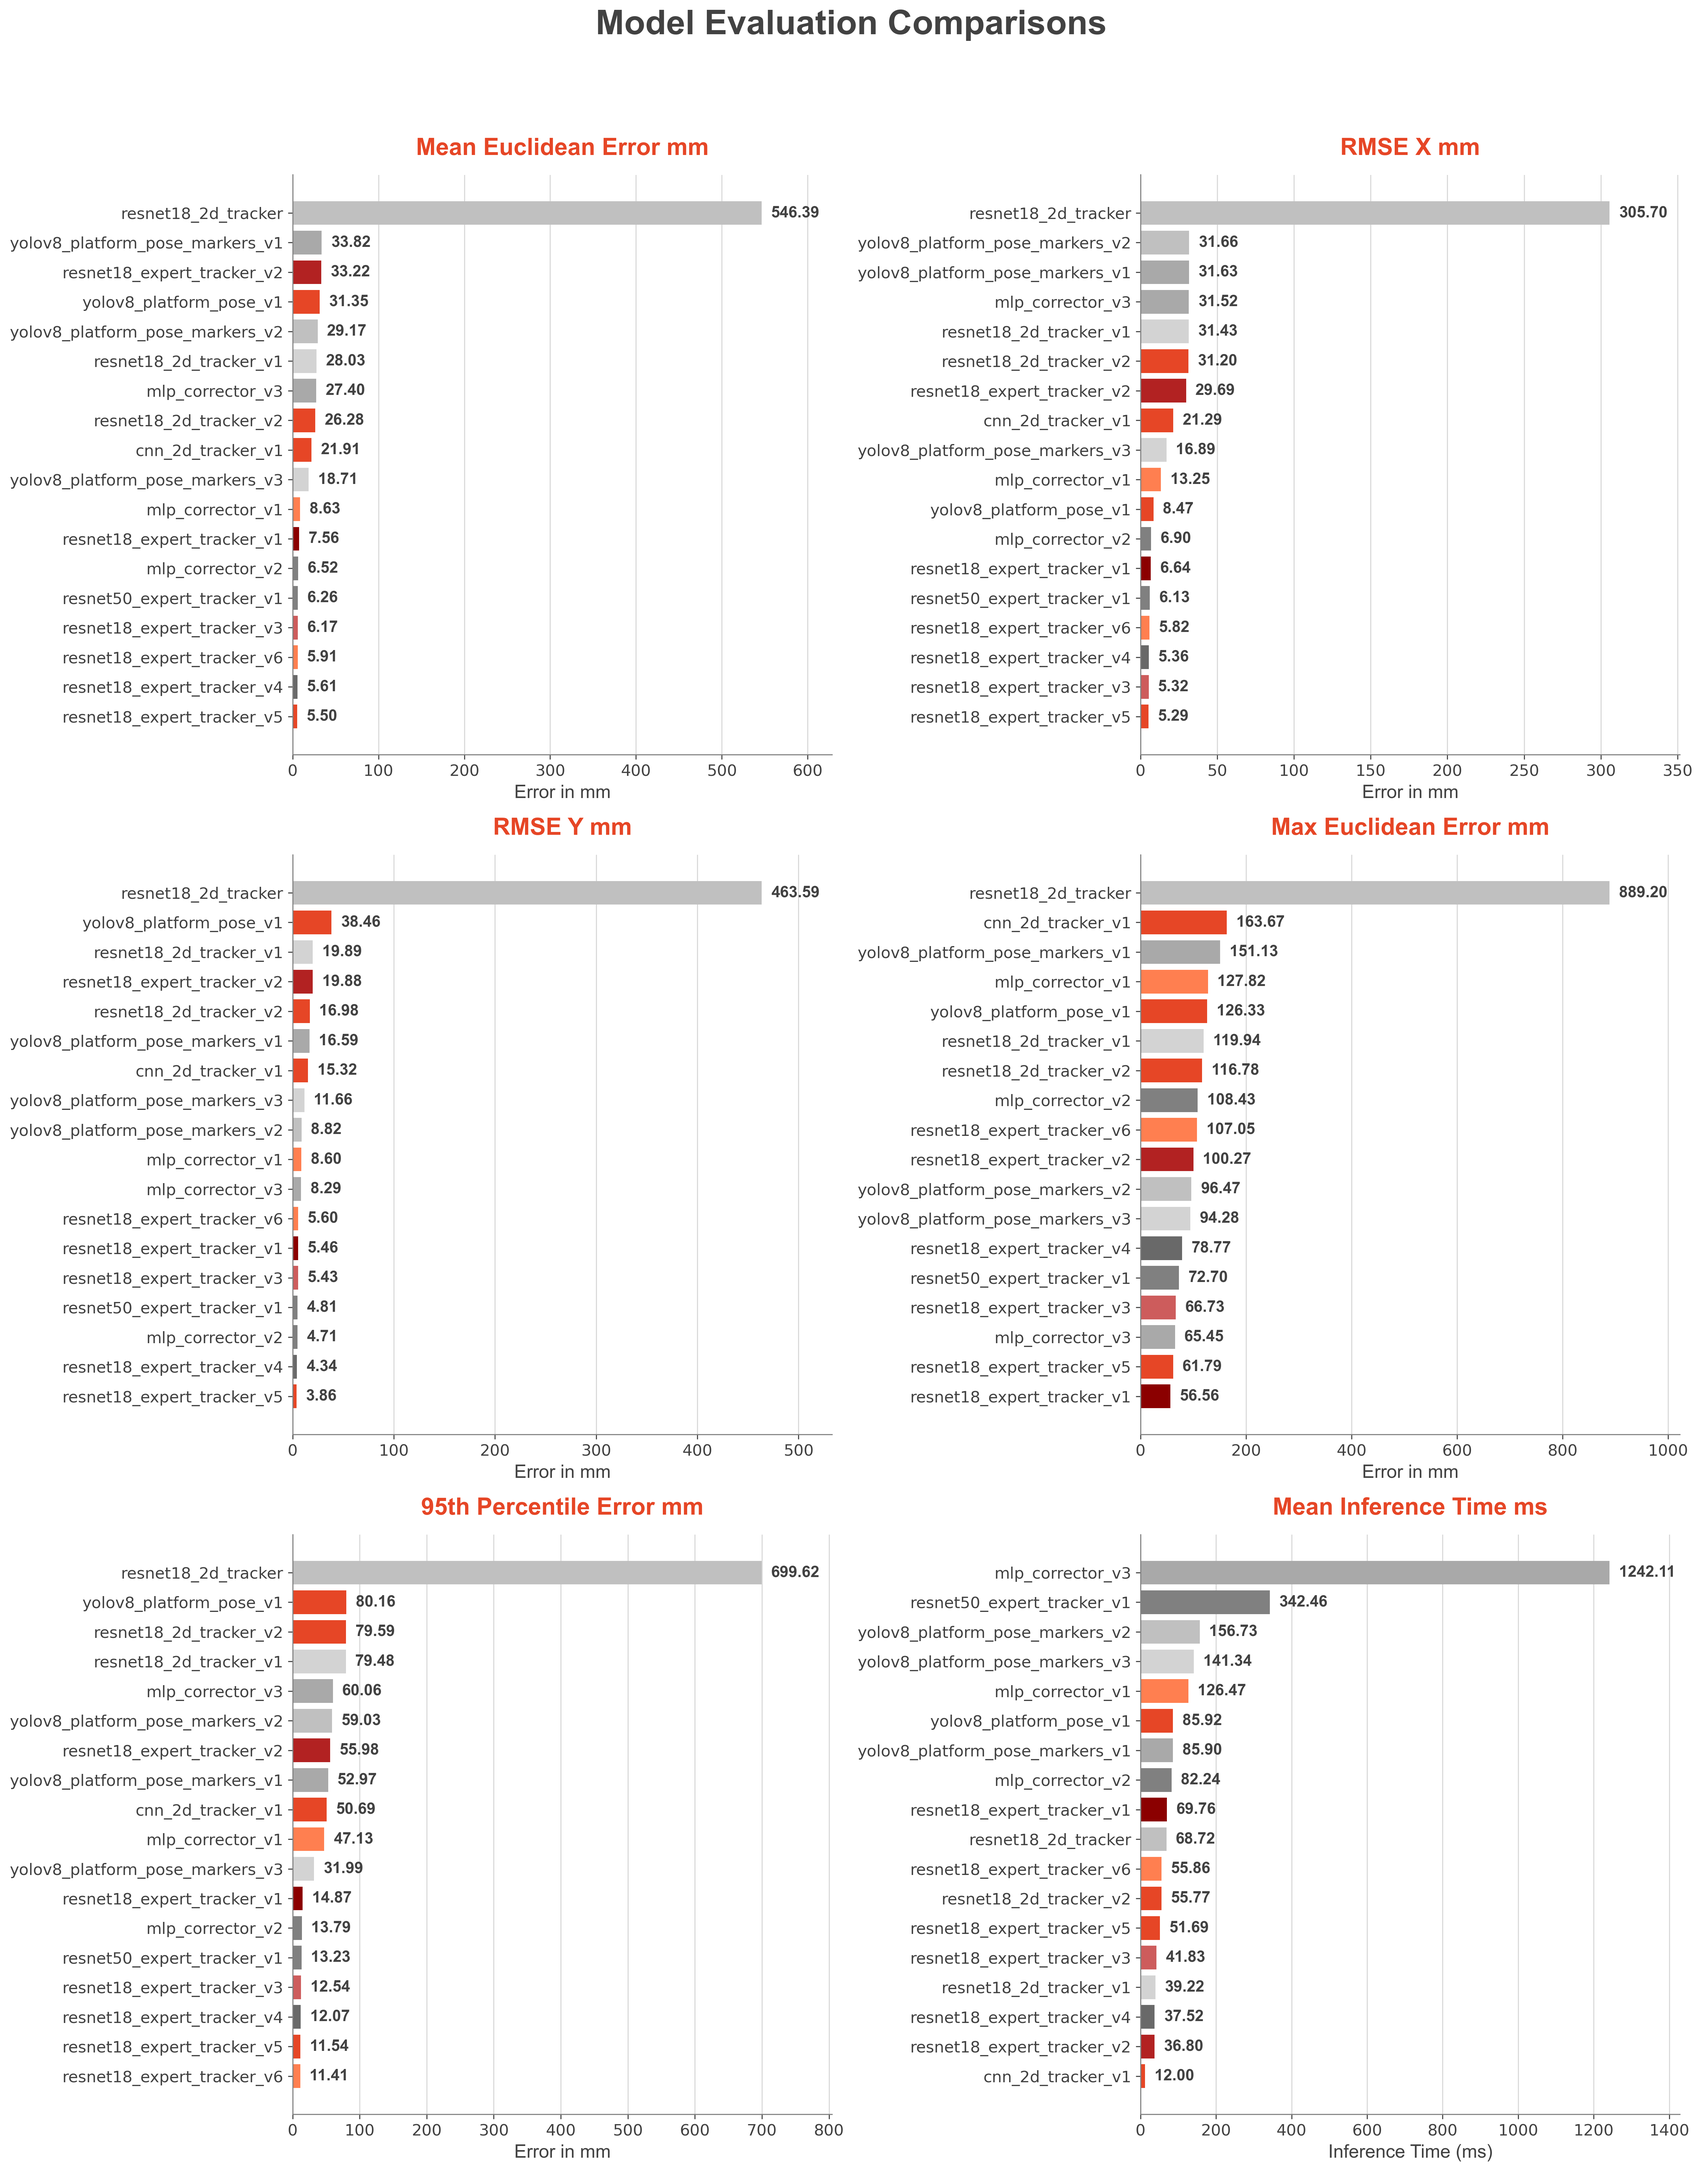
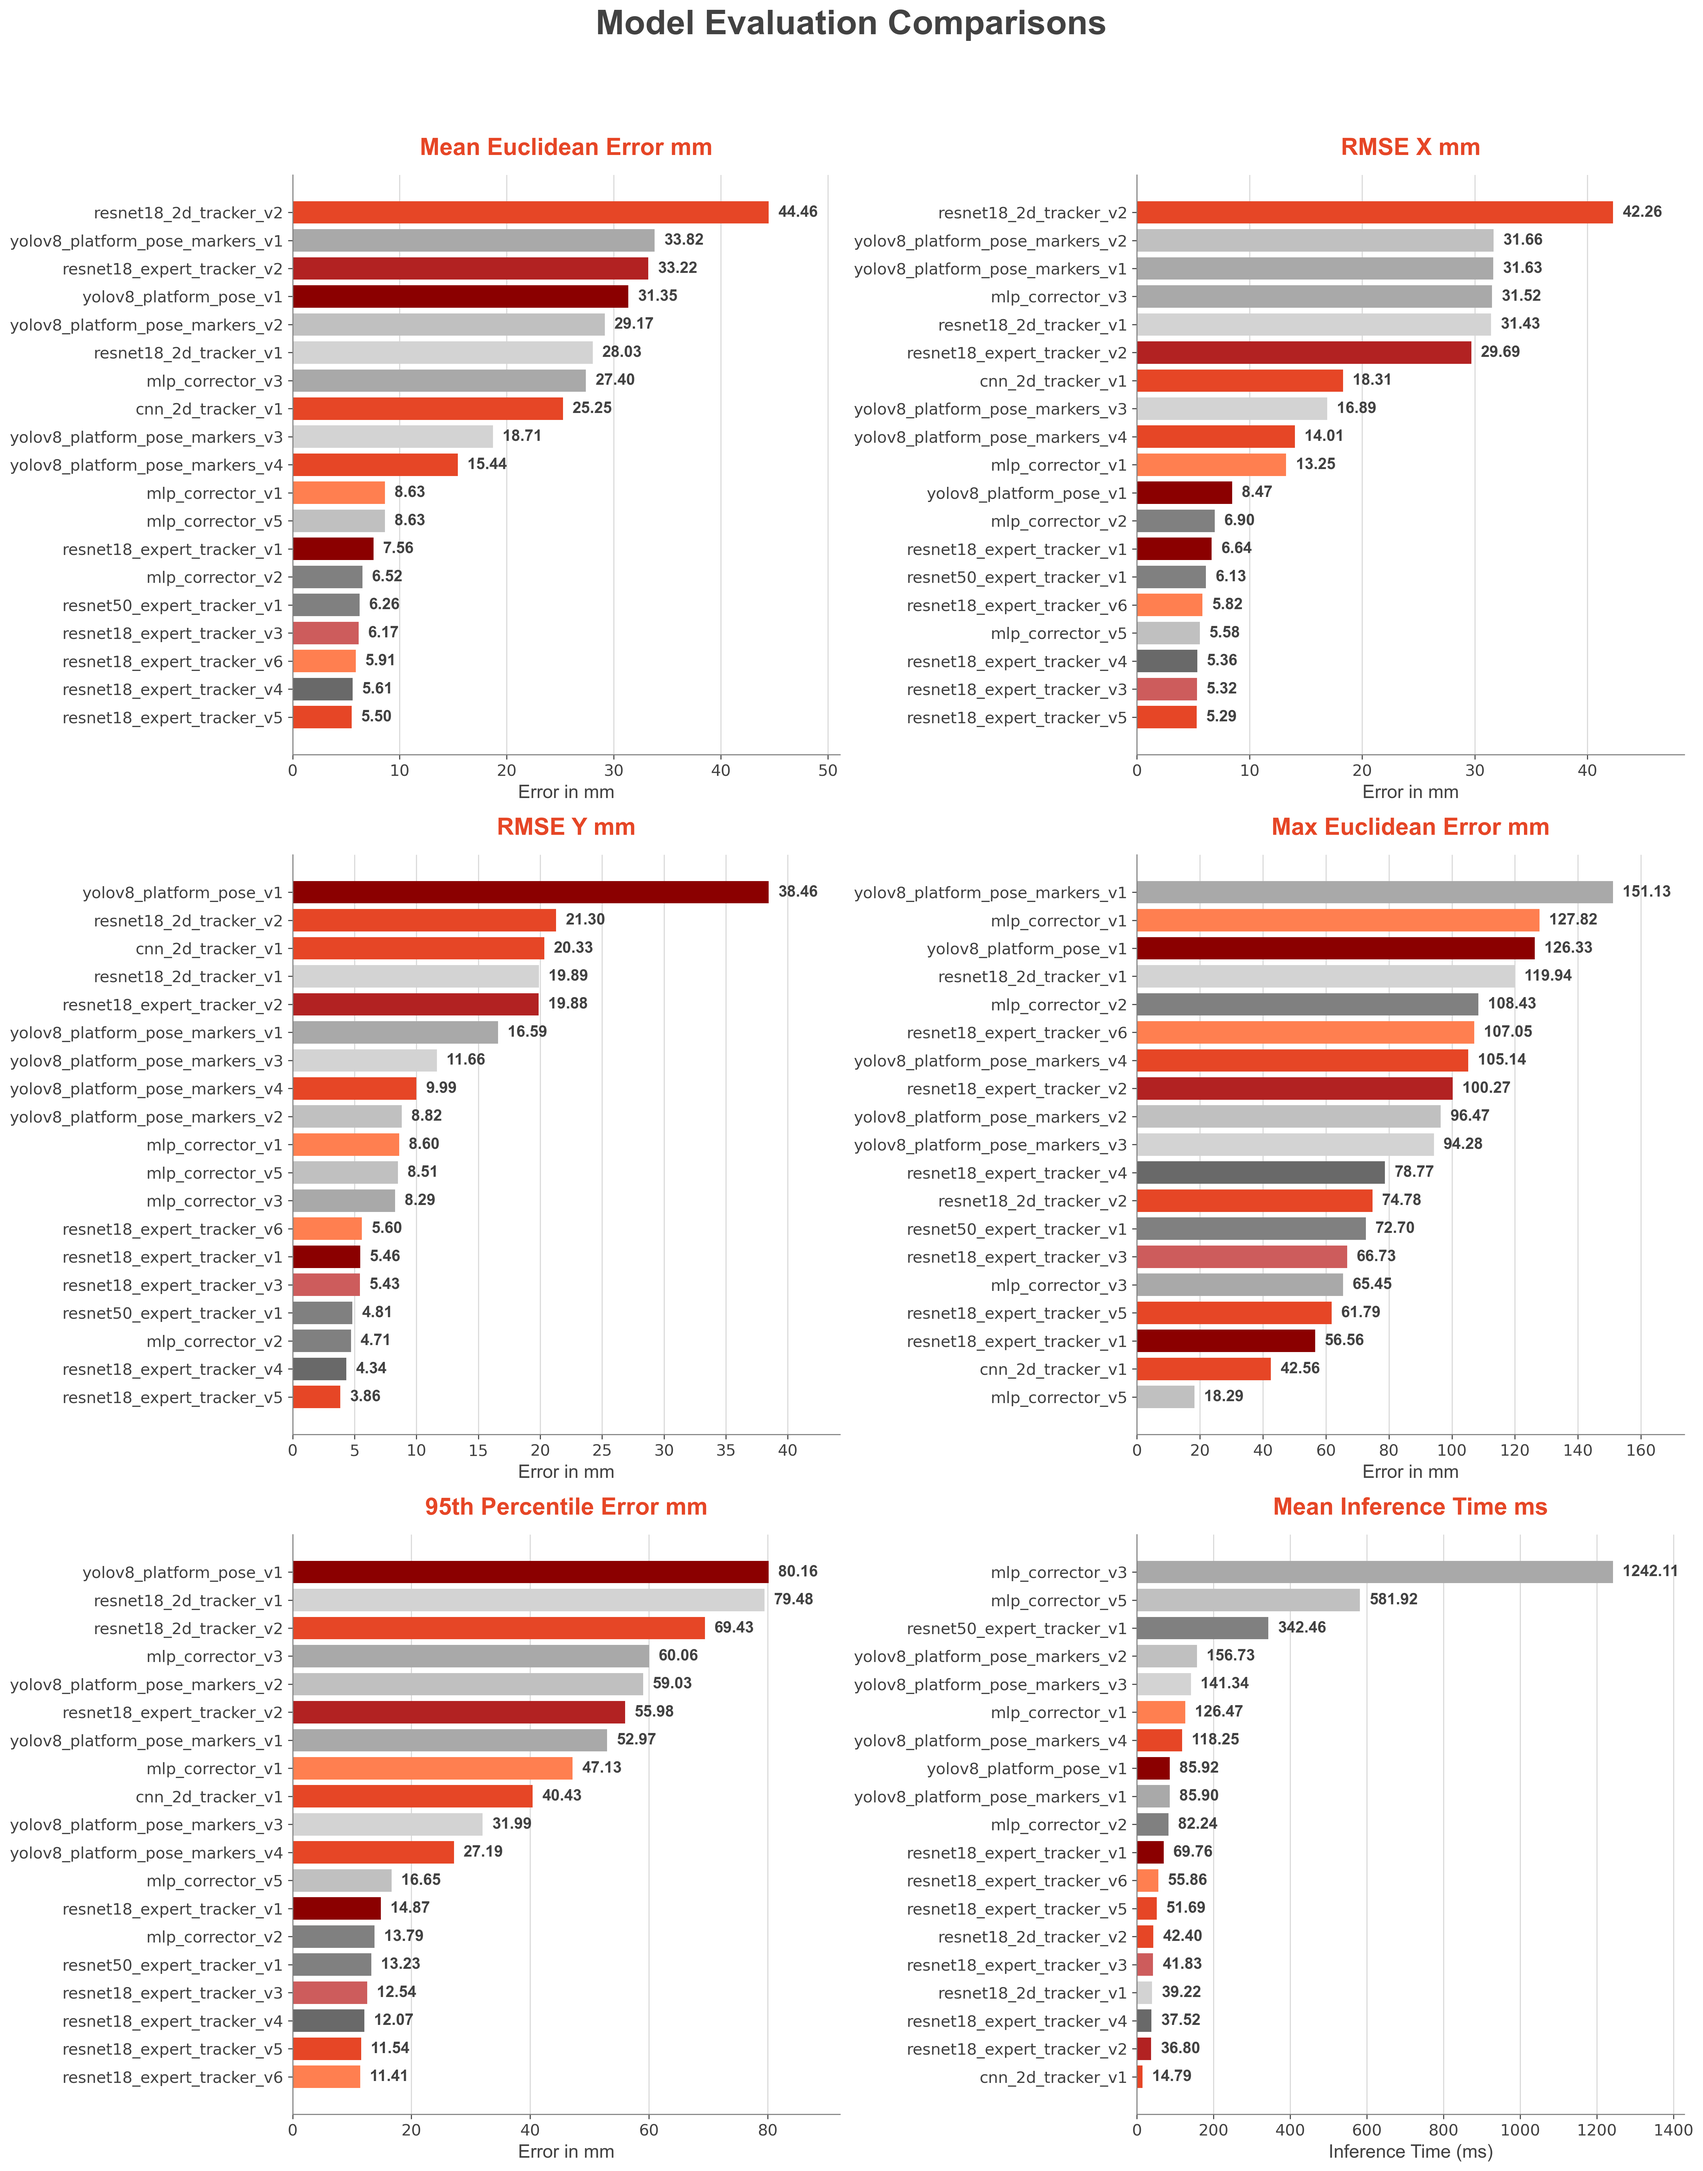
feat: implement main vision-to-serial inference pipeline and ground truth extraction utility

diff --git a/host_software/main.py b/host_software/main.py
@@ -44,7 +44,7 @@ def main():
     # 1. Hardware/Model Init
     device = torch.device("cuda:0" if torch.cuda.is_available() else "cpu")
     script_dir = os.path.dirname(os.path.abspath(__file__))
-    yolo_path = os.path.abspath(os.path.join(script_dir, 'ml_vision/models/yolov8_platform_pose_markers_v3/weights/best.pt'))
+    yolo_path = os.path.abspath(os.path.join(script_dir, 'ml_vision/models/yolov8_platform_pose_markers_v4/weights/best.pt'))
     mlp_corrector_path = os.path.abspath(os.path.join(script_dir, 'ml_vision/models/mlp_corrector_v2/best_mlp_corrector_v2.pth'))
     
     yolo_model = load_yolo_model(yolo_path, device)

diff --git a/host_software/ml_vision/data_processing/extract_ground_truth_features.py b/host_software/ml_vision/data_processing/extract_ground_truth_features.py
@@ -150,7 +150,7 @@ def extract_ground_truth_features():
                 })
                 
         if features:
-            out_csv = os.path.join(gold_dir, "yolo_features.csv")
+            out_csv = os.path.join(gold_dir, "ground_truth_features.csv")
             out_df = pd.DataFrame(features)
             # Sort by image_file to maintain determinism
             out_df = out_df.sort_values(by='image_file')
